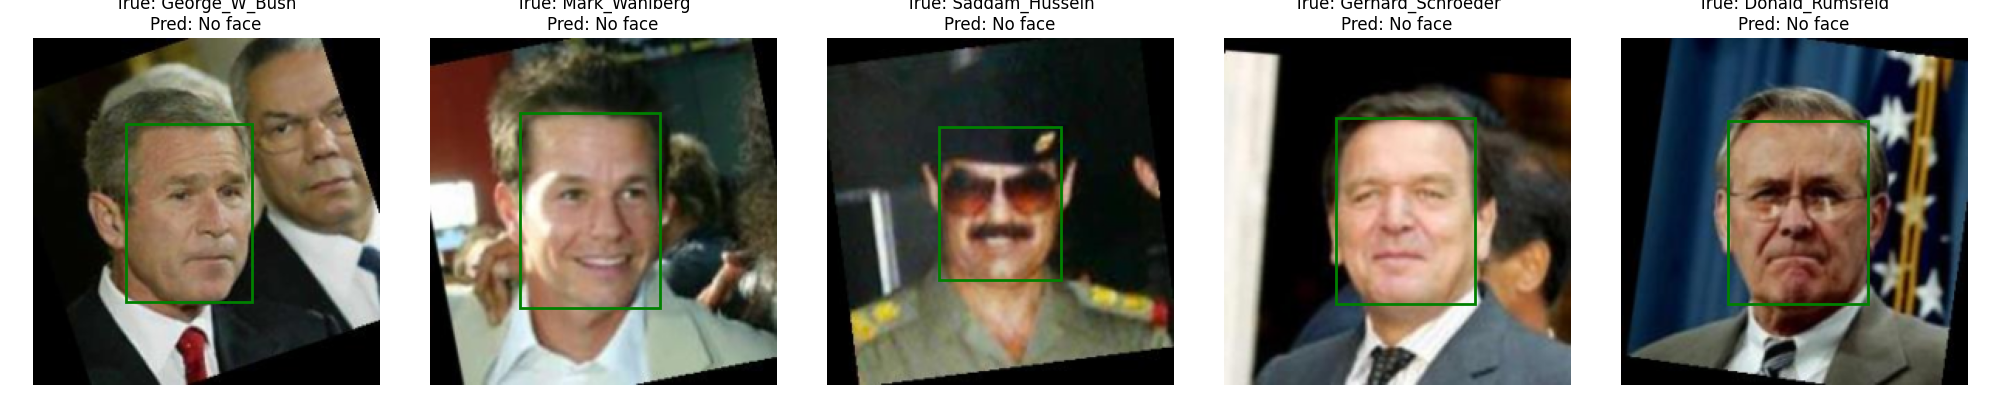
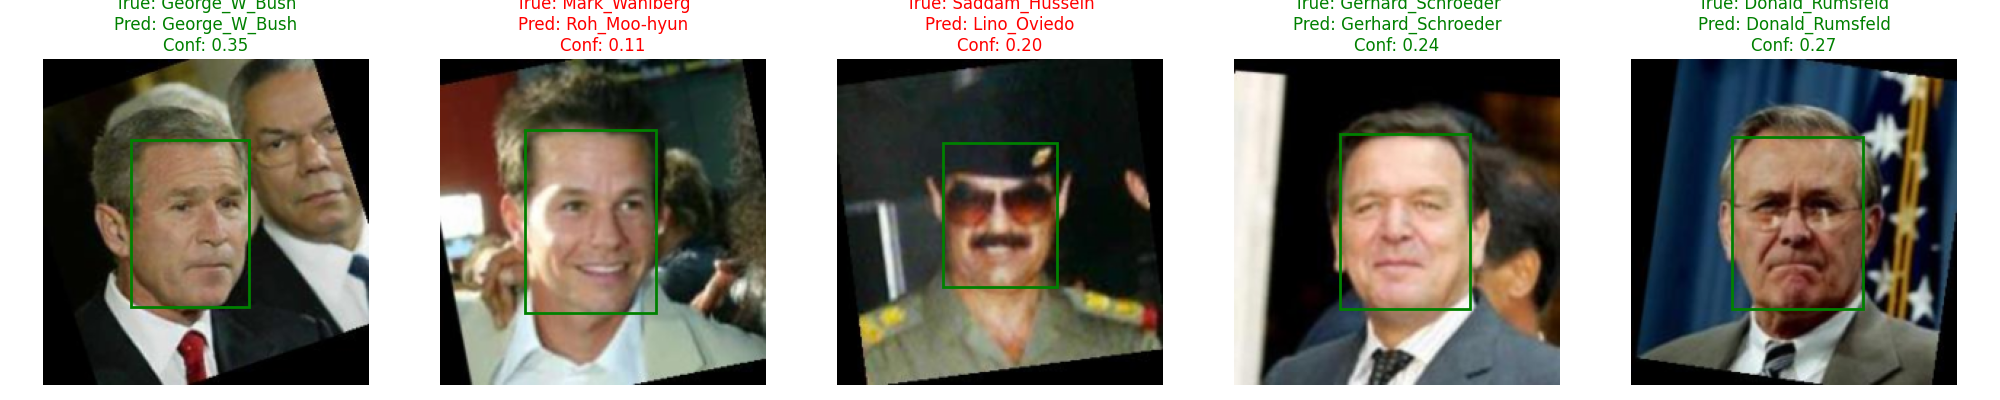
face verification for 2 faces using arcface

diff --git a/arcface_finfin.py b/arcface_finfin.py
@@ -1,0 +1,236 @@
+import argparse
+import os
+import numpy as np
+import torch
+import cv2
+import matplotlib.pyplot as plt
+from PIL import Image
+
+# InsightFace imports
+import insightface
+from insightface.app import FaceAnalysis
+
+# only works with Vaishnav's dataloader rn
+from lfw_dataloader import blur_face
+
+"""
+Face verification using InsightFace and Blur Analysis
+
+This script performs face verification between two images using InsightFace's ArcFace implementation.
+It can also do optional face blurring to analyze how it affects verification performance and whether
+it actually protects your privacy.
+
+Face verification works by:
+1. Detecting faces in both images
+2. Extracting deep feature embeddings using ArcFace
+3. Computing similarity between the embeddings
+4. Determining if they represent the same person based on similarity threshold
+
+Example usage:
+    # Basic verification of two images
+    python arcface_finfin.py --inputs image1.jpg image2.jpg
+
+    # With blur applied
+    python arcface_finfin.py --inputs image1.jpg image2.jpg --blur_sigma 3
+
+    # Compare different blur levels
+    python arcface_finfin.py --inputs image1.jpg image2.jpg --compare_blur_levels
+
+"""
+
+def parse_args():
+    parser = argparse.ArgumentParser(description='Verify faces with optional blurring')
+    parser.add_argument('--inputs', nargs='+', required=True, help='Paths to input images')
+    parser.add_argument('--blur_sigma', type=float, default=None, help='Blur sigma to apply')
+    parser.add_argument('--compare_blur_levels', action='store_true', help='Compare different blur levels')
+    parser.add_argument('--det_size', type=int, default=640, help='Detection size for InsightFace')
+    return parser.parse_args()
+
+class FaceVerifier:
+    def __init__(self, det_size=(640, 640)):
+        self.app = FaceAnalysis(providers=['CUDAExecutionProvider', 'CPUExecutionProvider'])
+        self.app.prepare(ctx_id=0, det_size=det_size)
+        print("InsightFace initialized successfully.")
+    
+    def get_face_embedding(self, img):
+        """Extract face embedding from an image"""
+        # Convert to correct format(opencv style)
+        if isinstance(img, Image.Image):
+            img = np.array(img)
+            img = cv2.cvtColor(img, cv2.COLOR_RGB2BGR)
+        
+        # Detect faces ( it uses retinaface for face detection)
+        faces = self.app.get(img)
+        
+        if len(faces) == 0:
+            return None
+        
+        # Get the face with the highest detection score
+        face = max(faces, key=lambda x: x.det_score)
+        
+        # Extract embedding
+        embedding = face.embedding
+        bbox = face.bbox.astype(int)
+        
+        return embedding, bbox, face.det_score
+    
+    def load_and_process_image(self, img_path, blur_sigma=None):
+        """Load an image, apply blur if needed, and return it"""
+        # Load the image
+        img = Image.open(img_path).convert('RGB')
+        
+        # Apply blur if specified
+        if blur_sigma is not None and blur_sigma > 0:
+            img = blur_face(img, blur_sigma)
+        
+        return img
+    
+    def compare_faces(self, img_path1, img_path2, blur_sigma=None):
+        """Compare two face images and return similarity score"""
+        # Load and process images
+        img1 = self.load_and_process_image(img_path1, blur_sigma)
+        img2 = self.load_and_process_image(img_path2, blur_sigma)
+        
+        img1_np = np.array(img1)
+        img2_np = np.array(img2)
+        img1_np = cv2.cvtColor(img1_np, cv2.COLOR_RGB2BGR)
+        img2_np = cv2.cvtColor(img2_np, cv2.COLOR_RGB2BGR)
+        
+        # Get embeddings
+        result1 = self.get_face_embedding(img1_np)
+        result2 = self.get_face_embedding(img2_np)
+        
+        if result1 is None or result2 is None:
+            print("Face detection failed on one or both images")
+            return None, None, None, None
+        
+        embedding1, bbox1, score1 = result1
+        embedding2, bbox2, score2 = result2
+        
+        # Calculate similarity
+        similarity = self.cosine_similarity(embedding1, embedding2)
+        
+        return similarity, (img1_np, bbox1), (img2_np, bbox2), (score1, score2)
+    
+    def compare_blur_levels(self, img_path1, img_path2, blur_levels=[0, 1, 3, 5, 7, 10]):
+        """Compare face verification results at different blur levels"""
+        results = []
+        
+        for blur in blur_levels:
+            blur_sigma = blur if blur > 0 else None
+            result = self.compare_faces(img_path1, img_path2, blur_sigma)
+            
+            if result[0] is None:
+                print(f"Skipping blur level {blur} due to face detection failure")
+                continue
+                
+            similarity = result[0]
+            results.append((blur, similarity))
+        
+        # Plot results
+        blurs, similarities = zip(*results)
+        
+        plt.figure(figsize=(10, 5))
+        plt.plot(blurs, similarities, marker='o')
+        plt.xlabel('Blur Sigma')
+        plt.ylabel('Cosine Similarity')
+        plt.title(f'Face Verification Similarity vs. Blur Level')
+        plt.grid(True)
+        plt.savefig('blur_comparison.png')
+        plt.show()
+        
+        return results
+    
+    @staticmethod
+    def cosine_similarity(a, b):
+        """Calculate cosine similarity between two vectors"""
+        return np.dot(a, b) / (np.linalg.norm(a) * np.linalg.norm(b))
+    
+    #gpted it
+    def visualize_comparison(self, img_path1, img_path2, blur_sigma=None):
+        """Visualize the face comparison with bounding boxes and similarity"""
+        result = self.compare_faces(img_path1, img_path2, blur_sigma)
+        
+        if result[0] is None:
+            print("Face detection failed, cannot visualize")
+            return
+        
+        similarity, (img1, bbox1), (img2, bbox2), (score1, score2) = result
+        
+        # Create figure
+        fig, axes = plt.subplots(1, 2, figsize=(12, 6))
+        
+        # Display first image
+        axes[0].imshow(cv2.cvtColor(img1, cv2.COLOR_BGR2RGB))
+        x1, y1, x2, y2 = bbox1
+        rect = plt.Rectangle((x1, y1), x2-x1, y2-y1, 
+                             fill=False, edgecolor='green', linewidth=2)
+        axes[0].add_patch(rect)
+        axes[0].set_title(f"Image 1\nDetection score: {score1:.3f}")
+        axes[0].axis('off')
+        
+        # Display second image
+        axes[1].imshow(cv2.cvtColor(img2, cv2.COLOR_BGR2RGB))
+        x1, y1, x2, y2 = bbox2
+        rect = plt.Rectangle((x1, y1), x2-x1, y2-y1, 
+                             fill=False, edgecolor='green', linewidth=2)
+        axes[1].add_patch(rect)
+        axes[1].set_title(f"Image 2\nDetection score: {score2:.3f}")
+        axes[1].axis('off')
+        
+        # Add similarity as suptitle
+        threshold = 0.5  # Adjust based on your needs
+        verdict = "Same person" if similarity > threshold else "Different people"
+        plt.suptitle(f"Similarity: {similarity:.4f} - {verdict}", fontsize=16)
+        
+        if blur_sigma:
+            plt.figtext(0.5, 0.01, f"Blur sigma: {blur_sigma}", ha='center', fontsize=12)
+        
+        plt.tight_layout()
+        plt.savefig("face_comparison.png")
+        plt.show()
+
+def main():
+    args = parse_args()
+    
+    # Check if we have at least two images
+    if len(args.inputs) < 2:
+        print("Error: Please provide at least two image paths")
+        return
+    
+    # Initialize face verifier
+    face_verifier = FaceVerifier(det_size=(args.det_size, args.det_size))
+    
+    if args.compare_blur_levels:
+        # Compare different blur levels
+        img_path1, img_path2 = args.inputs[:2]
+        results = face_verifier.compare_blur_levels(img_path1, img_path2)
+        print("\nBlur Level Comparison Results:")
+        for blur, similarity in results:
+            blur_text = f"{blur}" if blur > 0 else "No blur"
+            print(f"Blur sigma {blur_text}: Similarity = {similarity:.4f}")
+    else:
+        # Simple verification with optional blur
+        img_path1, img_path2 = args.inputs[:2]
+        face_verifier.visualize_comparison(img_path1, img_path2, args.blur_sigma)
+        
+        # Get similarity for reporting
+        result = face_verifier.compare_faces(img_path1, img_path2, args.blur_sigma)
+        if result[0] is not None:
+            similarity = result[0]
+            # The threshold can be adjusted however we want
+            # We could also tune the threshold based on confidence level
+            threshold = 0.5 
+            is_same_person = similarity > threshold
+            
+            print(f"\nFace Verification Results:")
+            print(f"Image 1: {os.path.basename(img_path1)}")
+            print(f"Image 2: {os.path.basename(img_path2)}")
+            print(f"Similarity: {similarity:.4f}")
+            print(f"Verdict: {'Same person' if is_same_person else 'Different people'}")
+            
+            if args.blur_sigma is not None:
+                print(f"Blur sigma applied: {args.blur_sigma}")
+
+if __name__ == "__main__":
+    main()

diff --git a/arcface_insightface.py b/arcface_insightface.py
@@ -1,3 +1,9 @@
+##########################################################################################
+# AGHHHHHHHHHHHHHHHHHHHHHHHHHHHHHHHHHHHHH
+# THIS DOESN'T WORK WELL RN
+##########################################################################################
+
+
 import os
 import torch
 import torch.nn as nn
@@ -5,7 +11,7 @@ import torch.optim as optim
 from torch.optim.lr_scheduler import StepLR
 import numpy as np
 import matplotlib.pyplot as plt
-from sklearn.metrics import accuracy_score, precision_recall_fscore_support
+from sklearn.metrics import accuracy_score, precision_recall_fscore_support, roc_curve, auc
 from tqdm import tqdm
 import cv2
 from sklearn.manifold import TSNE
@@ -14,6 +20,7 @@ from sklearn.manifold import TSNE
 import insightface
 from insightface.app import FaceAnalysis
 from insightface.data import get_image as ins_get_image
+from retinaface import RetinaFace
 
 # Only adapted it to Vaishnav's dataloader rn
 from lfw_dataloader import get_lfw_dataloaders
@@ -104,7 +111,7 @@ class InsightFaceBaseline:
         print(f"Reference database buildt. Processed {total} images, skipped {skipped}(no face detected).")
         return self.reference_embeddings
     
-    def identify_face(self, img, threshold=0.5):
+    def identify_face(self, img, threshold=0.1):
         """
         Identify a face by comparing with reference database embeddings
         """
@@ -135,7 +142,7 @@ class InsightFaceBaseline:
         
         return best_match, best_similarity, bbox
     
-    def evaluate(self, dataloader, threshold=0.5):
+    def evaluate(self, dataloader, threshold=0.3):
         """
         Evaluate the recognition performance on a dataset
         """

diff --git a/arcface_torch_train.py b/arcface_torch_train.py
@@ -1,6 +1,6 @@
 
-#Stupid first attempt at a model idk what I was thinking
-#Probably not using this
+# Stupid first attempt at a model idk what I was thinking
+# Probably not using this
 
 import os
 import torch
